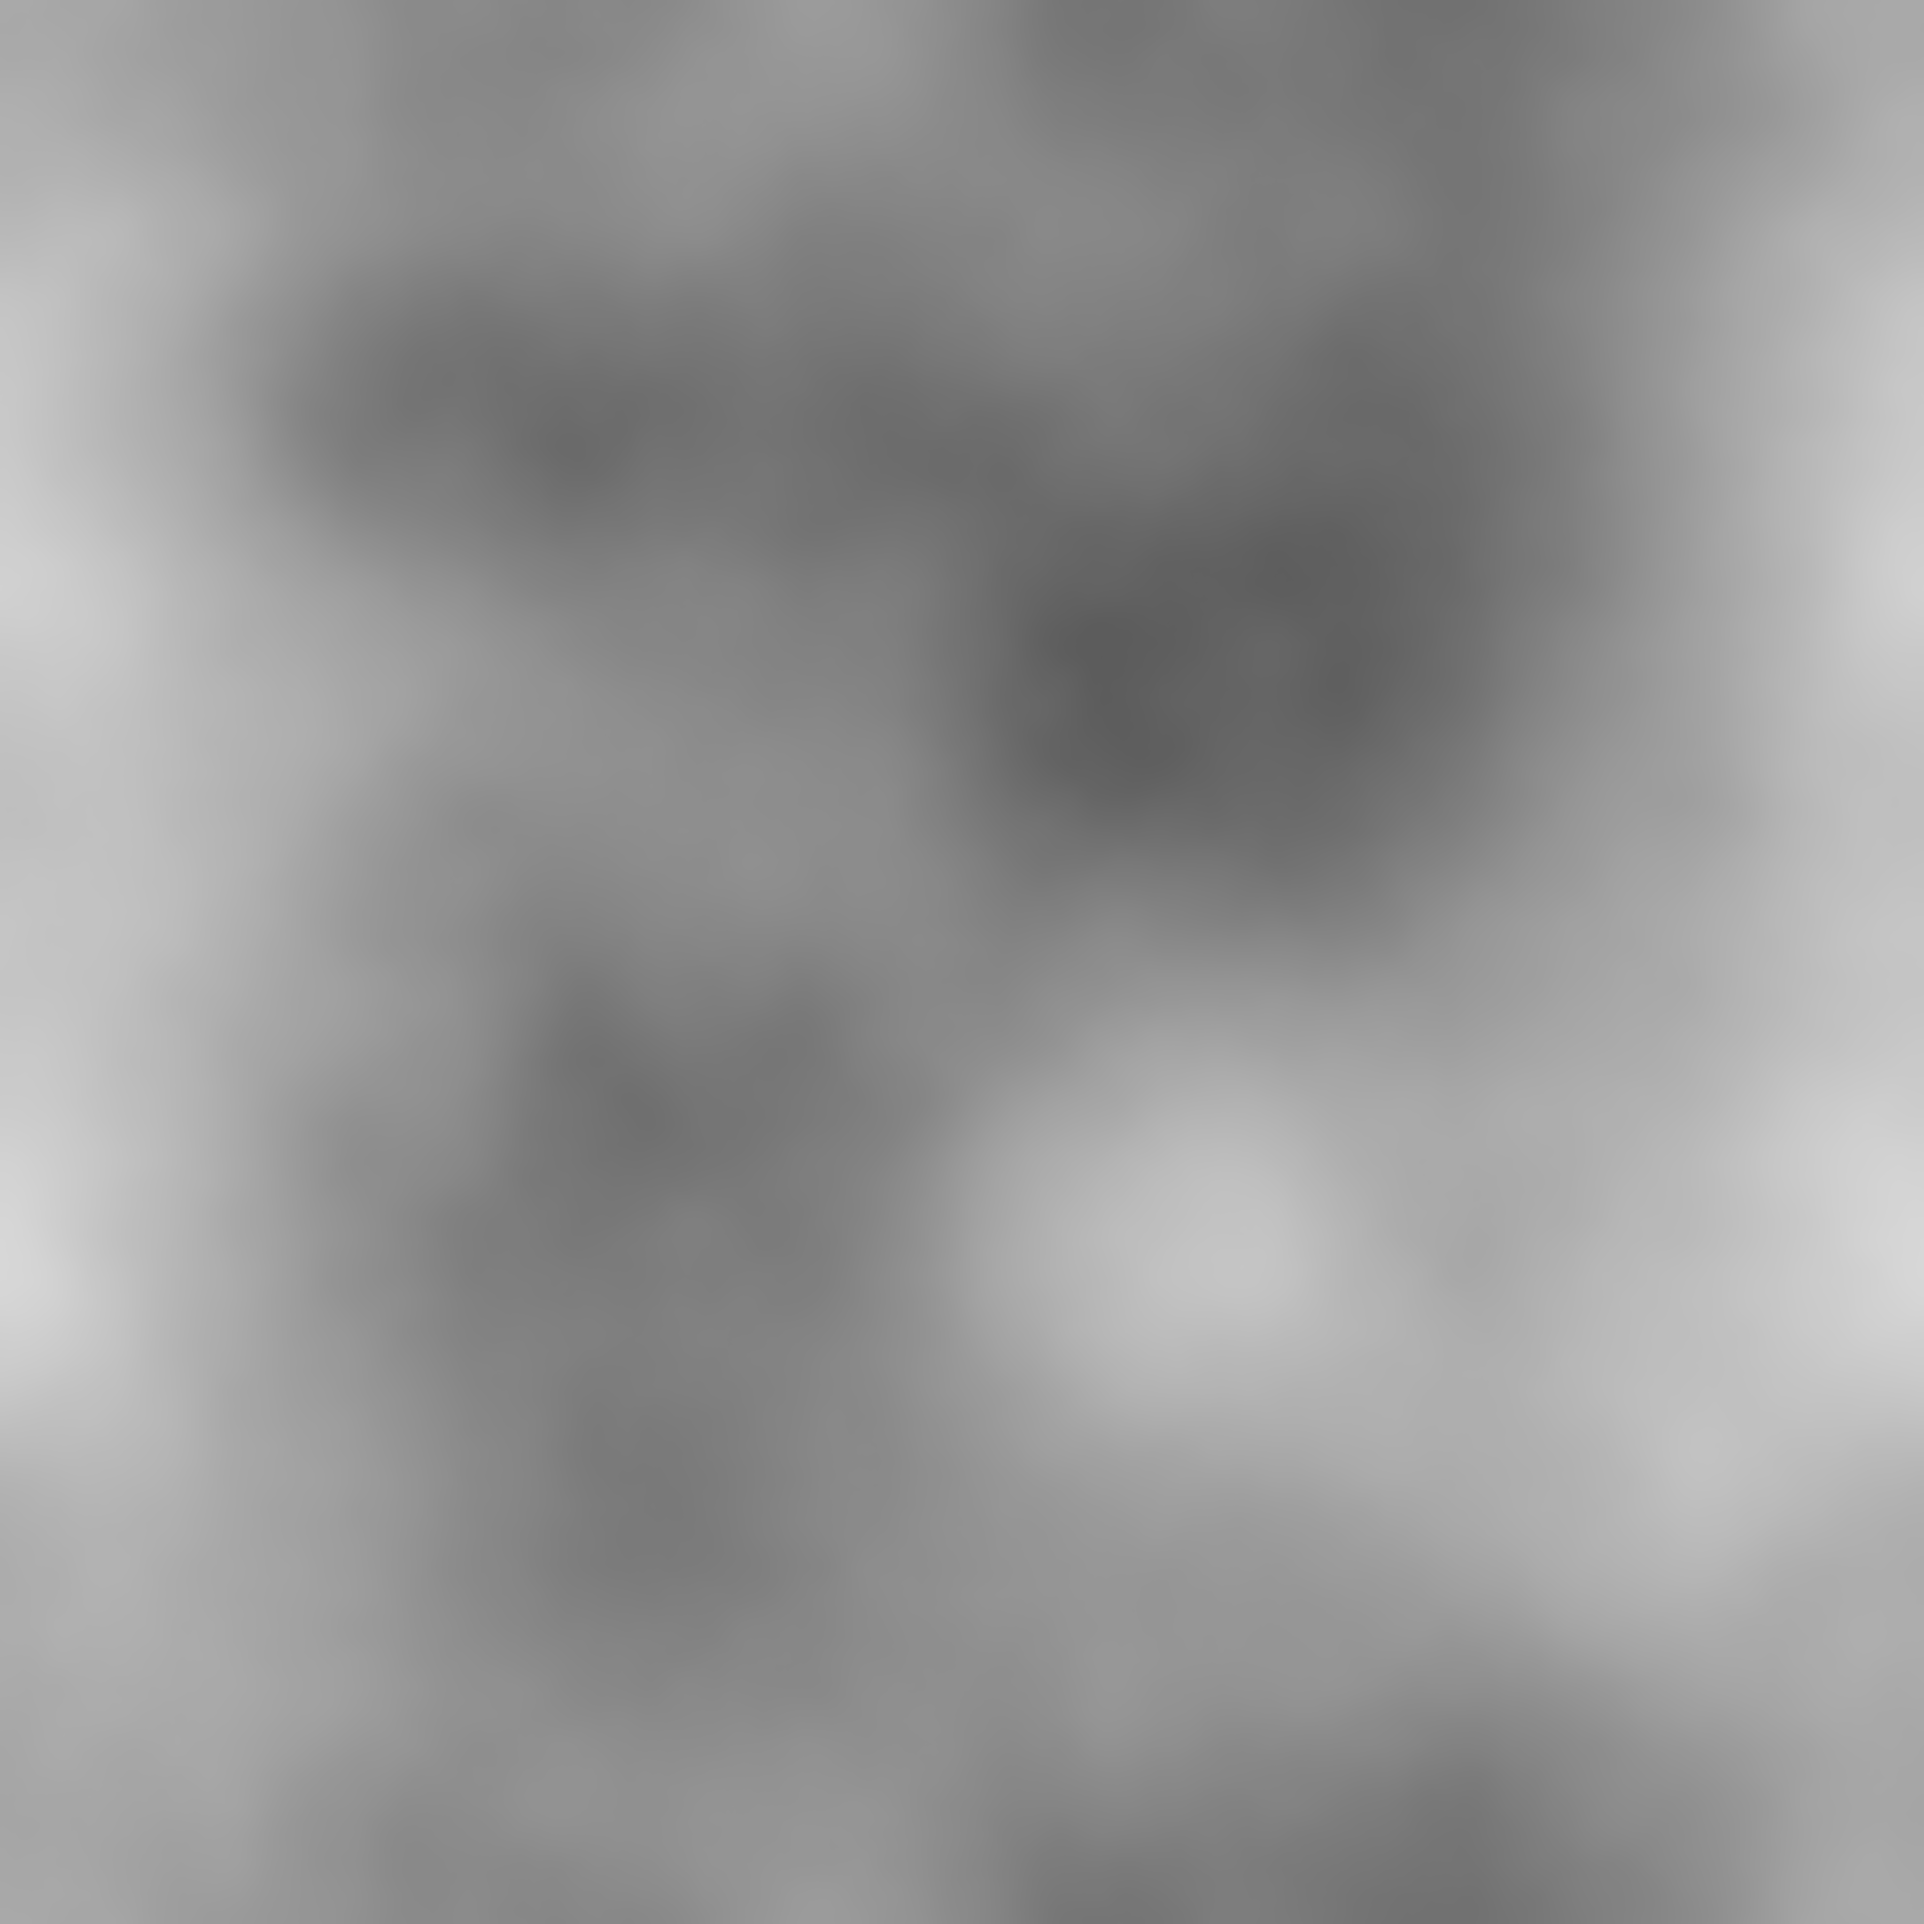
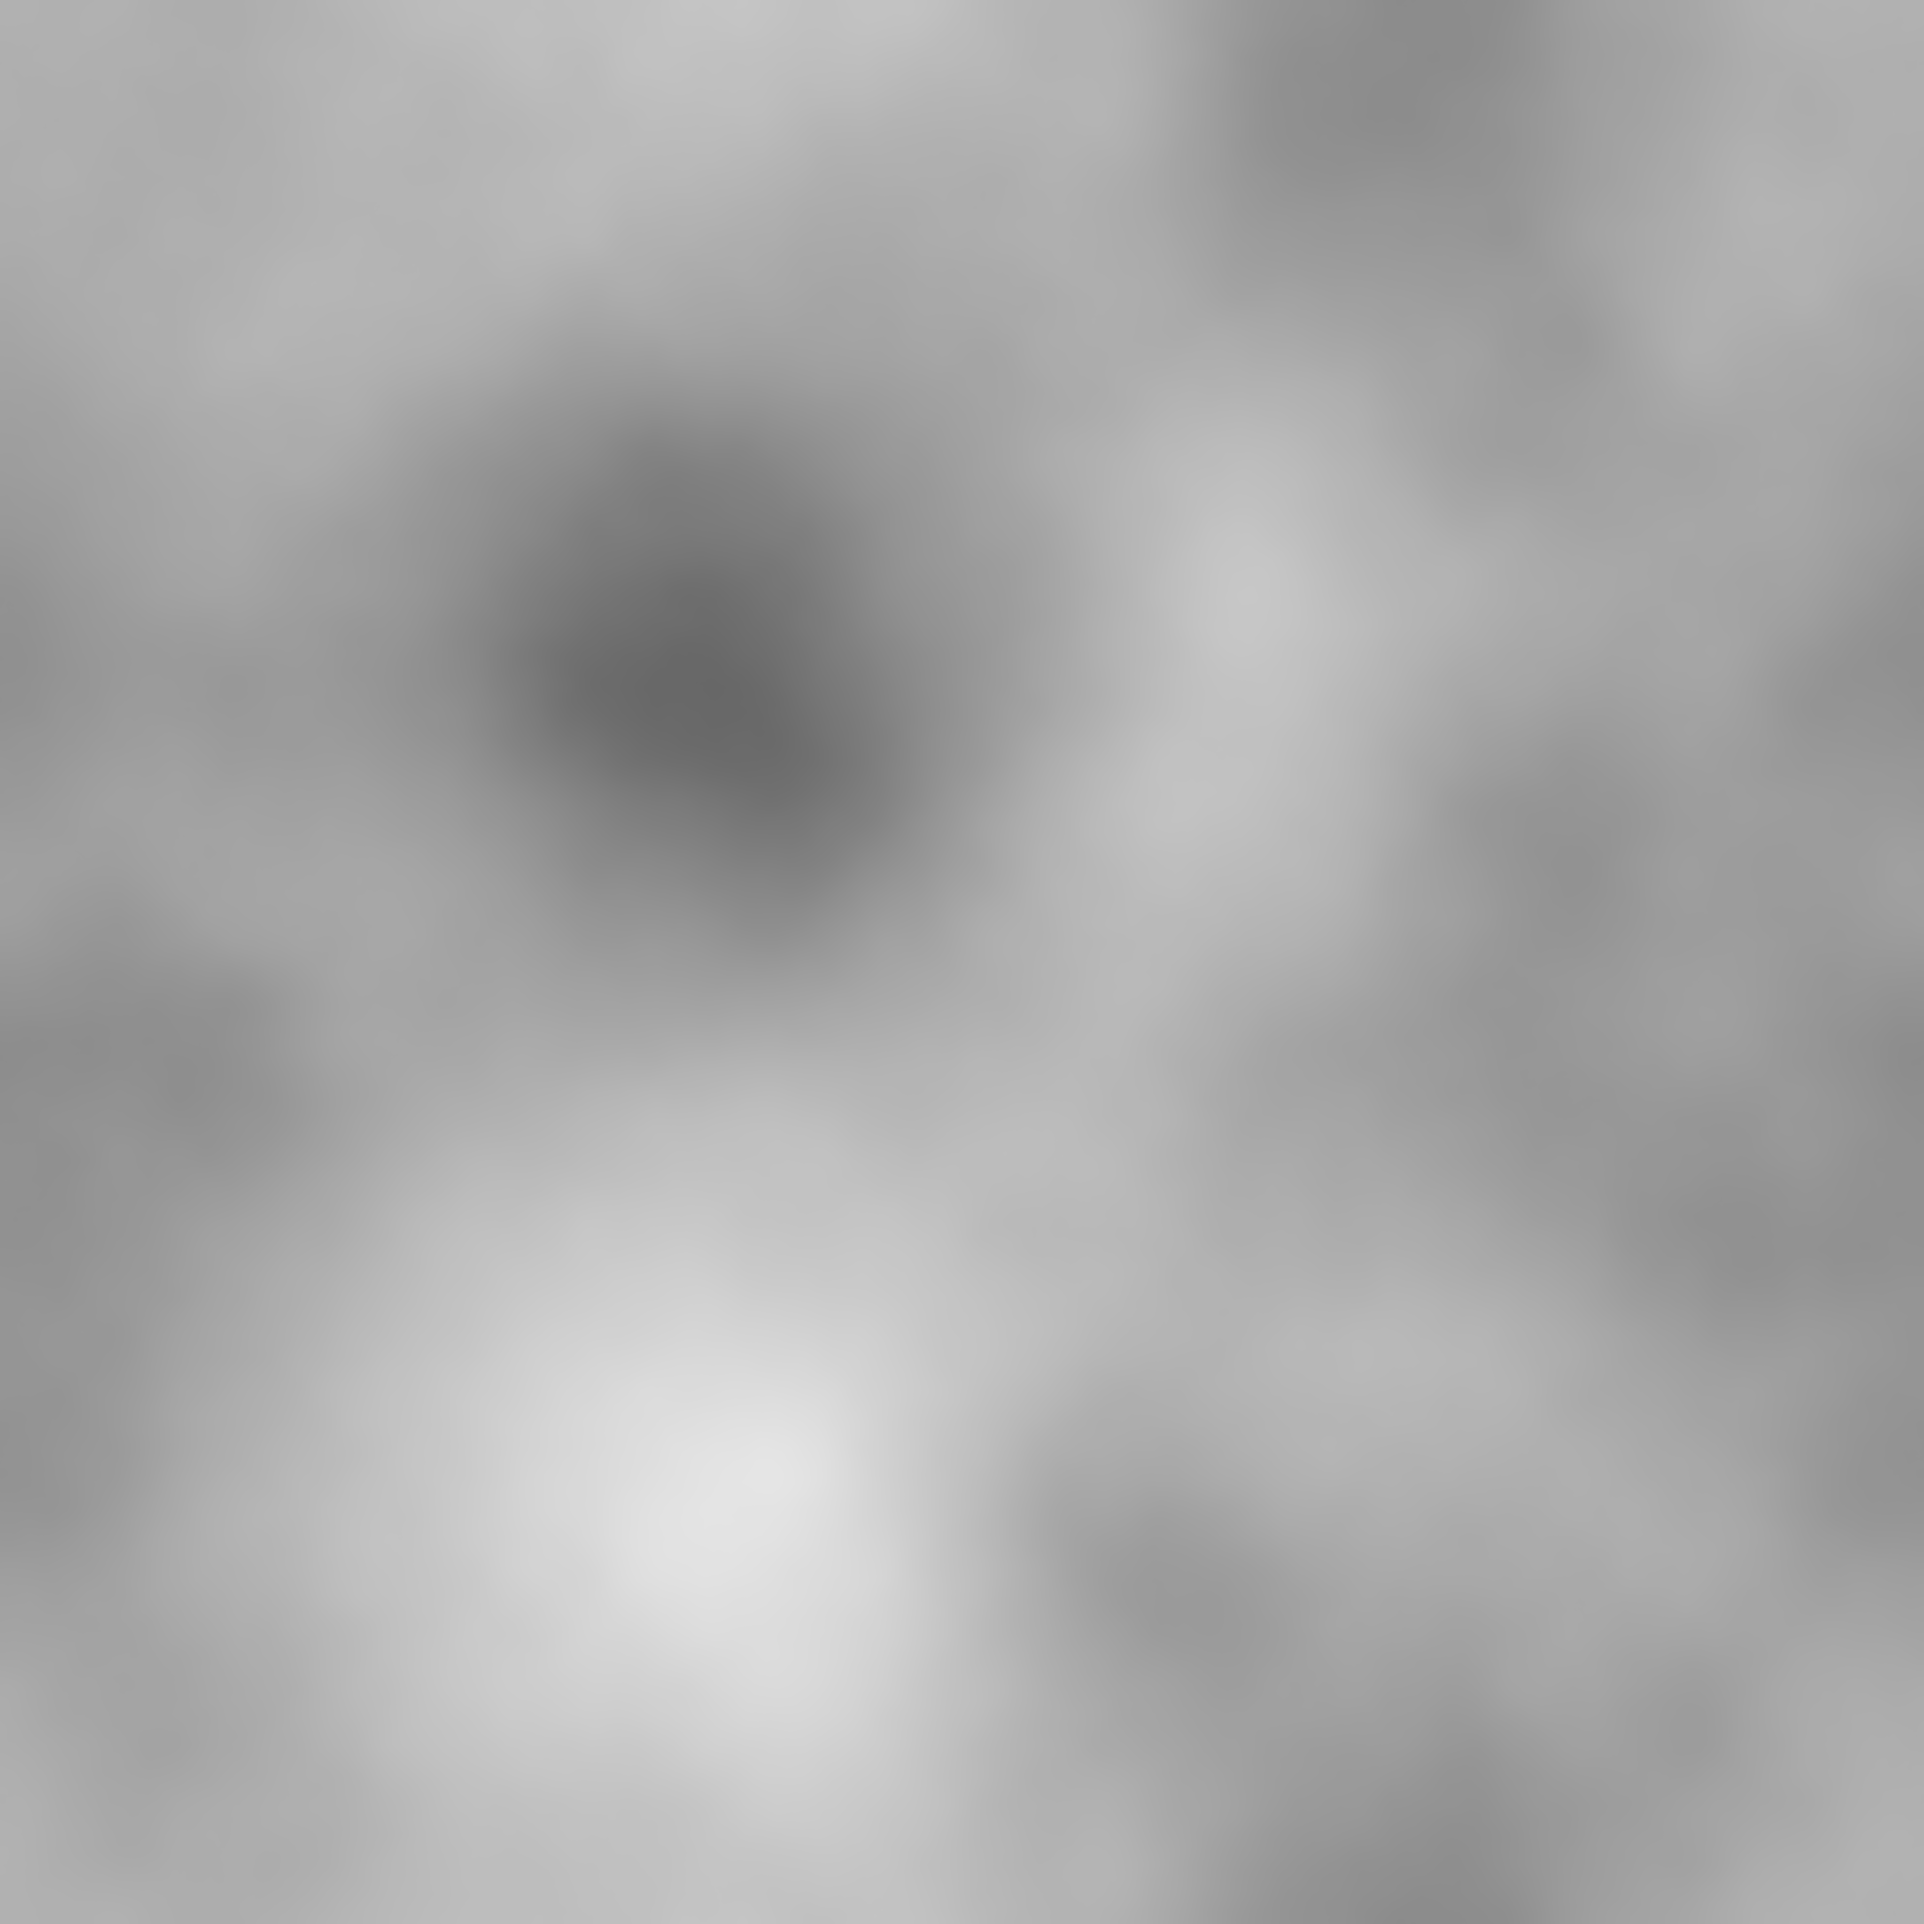
camera improvments

diff --git a/src/main.cpp b/src/main.cpp
@@ -1,7 +1,7 @@
 #include <SFML/Graphics.hpp>
 #include <iostream>
 #include <chrono>
-#include <math.h>
+#include <cmath>
 
 #include "ntypes.h"
 #include "map.h"
@@ -20,9 +20,10 @@ int main()
 
 	Map map;
 	fPlayer player;
+	player.SnapToGround(map.mapWidth,map.mapHeight,map.heightMap);
 
 	map.addEntity(0,0,"../assets/entity.png");
-
+	
     while (window.isOpen())
     {
         sf::Event event;
@@ -43,32 +44,41 @@ int main()
 		window.setMouseCursorVisible(false);
 		window.setMouseCursorGrabbed(true);
 
-		for(Entity e : map.entities)
-		{
-			std::cout << e.ex << "e, " << e.ey << std::endl;
-		}
 
-		std::cout << player.pposition.x << "p, " << player.pposition.y << std::endl;
-
-		//handle FPS camera MOVE TO CAMERA CLASS
-		int mx = (int)player.pposition.x % map.mapWidth;
-		int my = (int)player.pposition.y % map.mapHeight;
-		if (mx < 0) mx += map.mapWidth;
-		if (my < 0) my += map.mapHeight;
-		float cameraHeight = map.heightMap[my * map.mapWidth + mx] + 2.f;
         
 		//UPDATE
 		player.Update(deltaTimeSeconds,window);
 
+
+		//handle FPS camera MOVE TO Player CLASS
+		int mx = (int)player.pposition.x % map.mapWidth;
+		int my = (int)player.pposition.y % map.mapHeight;
+		if (mx < 0) mx += map.mapWidth;
+		if (my < 0) my += map.mapHeight;
+		
+		float offset = 2.f;
+		float maxStep = 3.f;
+
+		float targetHeight = map.heightMap[my * map.mapWidth + mx] + offset;
+		
+		if(targetHeight > player.cameraHeight + maxStep)
+		{
+			player.pposition.x = player.lastX;
+    		player.pposition.y = player.lastY;
+		}
+		else
+		{
+			player.cameraHeight = nlerp(player.cameraHeight, targetHeight, deltaTimeSeconds * 10);
+		}
 		
 		//render here
 		map.clearBuffer();
-		map.render(player.pposition, player.pangle, cameraHeight,player.horizon,3000,4000,WIDTH,HEIGHT,window);
+		map.render(player.pposition, player.pangle, player.cameraHeight,player.horizon,2000,2000,WIDTH,HEIGHT,window);
 		map.updateTexture();
 		window.clear();
 		window.draw(map.sprite);
         window.display();
-		//std::cout << 1.f / deltaTimeSeconds << std::endl;
+		std::cout << 1.f / deltaTimeSeconds << std::endl;
     }
 
     return 0;

diff --git a/tools/genmap.py b/tools/genmap.py
@@ -7,7 +7,7 @@ SEED        = np.random.randint(0, 9999)
 
 # --- Toggles ---
 GENERATE_CITY = False   # False = pure terrain, no buildings or roads
-TERRAIN_FLAT  = False   # False = generate noise-based heightmap terrain
+TERRAIN_FLAT  = False  # False = generate noise-based heightmap terrain
 
 # --- Material IDs ---
 MAT_TERRAIN    = 0
@@ -58,10 +58,8 @@ else:
         grid_w = int(width  / scale) + 2
         grid_h = int(height / scale) + 2
         grid   = rng.random((grid_h, grid_w))
-        # Wrap last row/col to first so the grid tiles with period (grid_w-1)
         grid[-1, :] = grid[0, :]
         grid[:, -1] = grid[:, 0]
-        # endpoint=False: pixel 0 -> grid 0, pixel W would -> grid (grid_w-1) = grid[0]
         xs = np.linspace(0, grid_w - 1, width,  endpoint=False)
         ys = np.linspace(0, grid_h - 1, height, endpoint=False)
         x0 = np.floor(xs).astype(int); x1 = np.minimum(x0 + 1, grid_w - 1)
@@ -91,7 +89,6 @@ def color_noise(w, h, scale, rng_):
     gw = int(w / scale) + 2
     gh = int(h / scale) + 2
     g  = rng_.random((gh, gw))
-    # Same tiling fix: wrap edges, sample with endpoint=False
     g[-1, :] = g[0, :]
     g[:, -1] = g[:, 0]
     xs = np.linspace(0, gw - 1, w, endpoint=False)
@@ -104,7 +101,6 @@ def color_noise(w, h, scale, rng_):
     bottom = g[np.ix_(y1, x0)] * (1 - fx) + g[np.ix_(y1, x1)] * fx
     return top * (1 - fy) + bottom * fy
 
-# Comanche-style terrain color ramp
 TERRAIN_RAMP = [
     (0.00, ( 30,  38,  18)),   # dark soil / deep valley
     (0.15, ( 45,  58,  25)),   # lowland grass

diff --git a/src/map.cpp b/src/map.cpp
@@ -93,6 +93,7 @@ void Map::render(point p, float angle, float height, float horizon, float scale_
 	float dx,dy;
 	float heightOnScreen;
 
+
 	std::vector<int> ybuffer(screen_width, screen_height);
 	std::vector<float> zbuffer(screen_width, (float) distance);
 	std::vector<bool> entityPixel(screen_width * screen_height, false);
@@ -133,12 +134,12 @@ void Map::render(point p, float angle, float height, float horizon, float scale_
 
 	for(float i = 1; i < distance; i+= step)
 	{
-		
+		//fov 
 		pleft.x = (-cosine * i - sine * i) + p.x;
 		pleft.y = (sine * i - cosine * i ) + p.y;
 
-		pright.x = ( cosine*i - sine*i) + p.x;
-		pright.y = (-sine*i - cosine*i) + p.y;
+		pright.x = ( cosine * i - sine*i) + p.x;
+		pright.y = (-sine * i - cosine*i) + p.y;
 
 		dx = (pright.x - pleft.x) / screen_width;
 		dy = (pright.y - pleft.y) / screen_width;

diff --git a/src/player.h b/src/player.h
@@ -12,16 +12,23 @@ class fPlayer
 public:
     fPlayer();
 
-    void CameraPosition(int mx, int my);
     void Update(float deltaTimeSeconds, sf::RenderWindow& window);
+    void SnapToGround(int mapWidth, int mapHeight, std::vector<float> heightMap);
 
+    
+    
     float pspeed =  300.f;
     float psens  = 0.003f;
+    
+    float offset = 2.0f;
 
 
     point pposition = {0,0};
     float pangle = 0;
-    sf::Vector2i mousePos;
     float cameraHeight;
 	float horizon = 0;
+    float lastX,lastY;
+    
+private:
+    sf::Vector2i mousePos;
 };

diff --git a/src/player.cpp b/src/player.cpp
@@ -5,12 +5,20 @@ fPlayer::fPlayer()
 
 }
 
-void fPlayer::CameraPosition(int mx, int my)
+void fPlayer::SnapToGround(int mapWidth, int mapHeight, std::vector<float> heightMap)
 {
+    int mx = (int)pposition.x % mapWidth;
+    int my = (int)pposition.y % mapHeight;
+    cameraHeight = heightMap[my * mapWidth + mx] + offset;
 }
 
 void fPlayer::Update(float deltaTimeSeconds, sf::RenderWindow &window)
 {
+
+	lastX = pposition.x;
+	lastY = pposition.y;
+
+
 
 	//keyboard movement
 	if(sf::Keyboard::isKeyPressed(sf::Keyboard::W))

diff --git a/src/ntypes.h b/src/ntypes.h
@@ -3,3 +3,8 @@
 
 
 struct point{float x, y;};
+
+inline float nlerp(float a, float b, float t)
+{
+    return a + (b - a) * t;
+}

diff --git a/src/map.h b/src/map.h
@@ -69,6 +69,7 @@ public:
 
     std::vector<std::uint8_t> pixel; // pixel buffer
 
+
     int mapWidth;
     int mapHeight;
 
